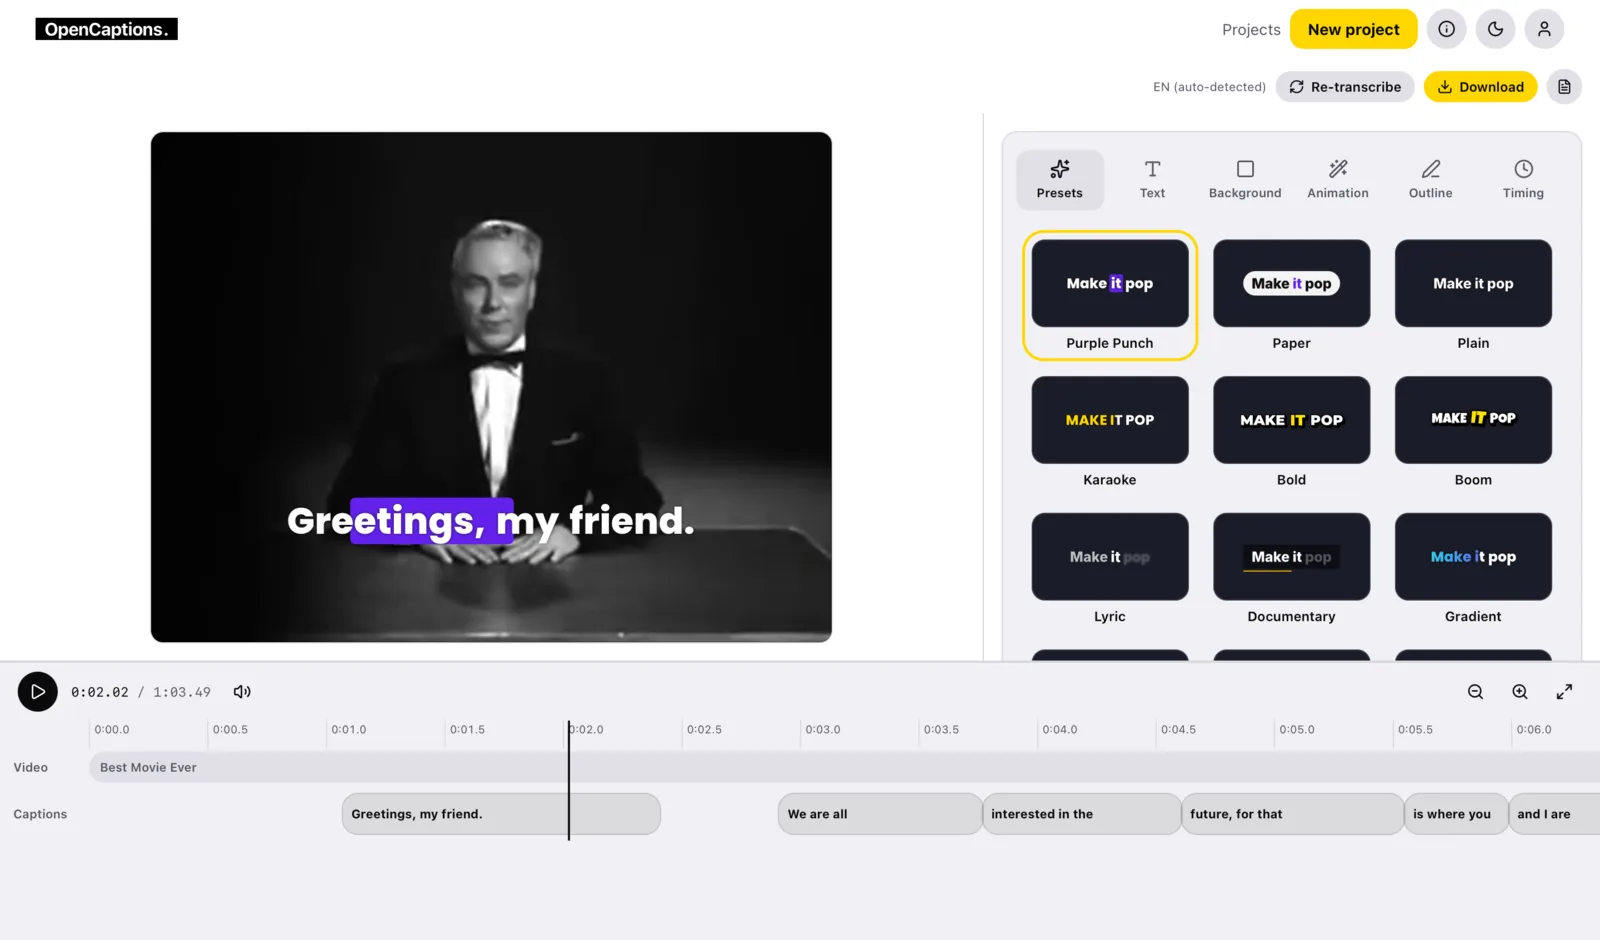
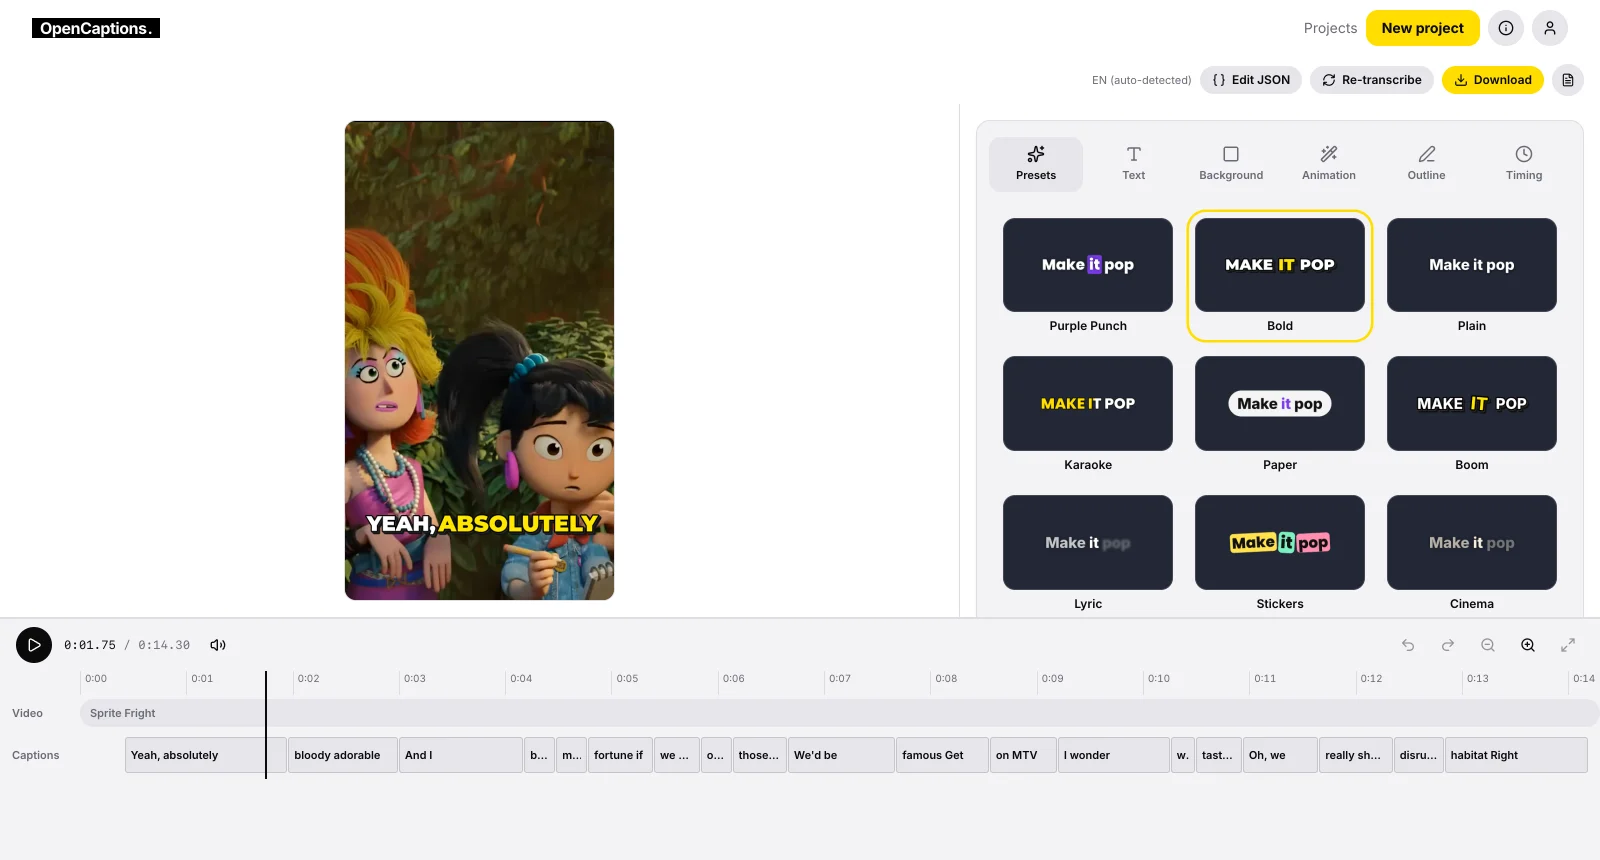
docs: The app is out: the README and guides link to it, say what is not on the Mac yet, explain Pro, and the screenshot shows the current editor on an animated film

diff --git a/README.md b/README.md
@@ -9,13 +9,15 @@
 Transcribe with Whisper or Parakeet, style every word, and export a burned-in video or subtitle files.
 Nothing leaves your machine unless you say so.
 
-**[Documentation](https://docs.opencaptions.app)** · **[Try it in your browser](https://opencaptions.app)** · **[Self-host it](#quick-start)**
+**[Get the iPhone app](https://apps.apple.com/app/id6820548922)** · **[Try it in your browser](https://opencaptions.app)** · **[Self-host it](#quick-start)** · **[Documentation](https://docs.opencaptions.app)**
 
 [![License: AGPL v3](https://img.shields.io/badge/License-AGPL_v3-blue.svg)](LICENSE)
 [![CI](https://github.com/leogaudin/opencaptions/actions/workflows/ci.yml/badge.svg)](https://github.com/leogaudin/opencaptions/actions/workflows/ci.yml)
 [![Status](https://img.shields.io/badge/status-pre--v0.1-orange.svg)](#status)
 
 ![OpenCaptions editor: a video with word-by-word animated captions next to the style panel, over the caption timeline](docs/screenshot.webp)
+
+<sub>Clip: <a href="https://studio.blender.org/projects/sprite-fright/">Sprite Fright</a> by Blender Studio, CC BY 4.0</sub>
 
 </div>
 
@@ -29,7 +31,8 @@ Nothing leaves your machine unless you say so.
 - **Export** a burned-in MP4, WebM or ProRes, SRT, VTT and JSON, or just the captions on a green
   screen to key out in your video editor
 - **The preview is the export**: one Rust engine draws both, so what you see is what you get
-- **iPhone, iPad and Mac app** with on-device Whisper, Parakeet and Apple Speech, no server and no account
+- **[iPhone and iPad app](https://apps.apple.com/app/id6820548922)** with on-device Whisper, Parakeet and Apple Speech, no server and
+  no account. The same code builds for the Mac
 - **Many scripts and languages**: Latin, Cyrillic, Arabic, Hebrew, Indic, Thai, CJK and more, and
   an interface in 13 languages
 - **Private by design**: no telemetry, no tracking, accounts are local to your instance
@@ -71,12 +74,20 @@ To build from source instead, clone the repository and run `docker compose up -d
 Pre-v0.1: under active construction, and APIs and schemas may change until the first tagged
 release.
 
+## Why is there a Pro?
+
+The iPhone app is free. Pro is one purchase, with no subscription: it removes the mark on saved videos
+and adds 4K, 60 fps, HDR and every caption style. All of that code is here, and
+[a build you make yourself](apps/ios/README.md) has everything unlocked. The App Store version costs
+money so that someone signs it, ships it and keeps it working.
+
 ## License
 
 [AGPL-3.0-only](LICENSE). If you offer a hosted version of OpenCaptions, the AGPL requires you to
 publish your modifications. Contributors accept a [CLA](CLA.md) so the maintainer can also ship
 the code where the AGPL cannot go, such as the App Store. Third-party components keep their own
-licences, see [NOTICE](NOTICE).
+licences, see [NOTICE](NOTICE). The name and the icon are covered by the
+[trademark policy](TRADEMARK.md).
 
 Built and maintained by [Leo Gaudin](https://github.com/leogaudin).
 

diff --git a/docs/guides/iphone-app.md b/docs/guides/iphone-app.md
@@ -12,14 +12,15 @@ save a captioned video. There is no account and no server, and nothing is upload
 **iOS 18** or later and works on iPhone and iPad.
 
 :::note[Availability]
-The app is being prepared for the App Store. Until it is there, you can
+[Get it on the App Store](https://apps.apple.com/app/id6820548922), for iPhone and iPad. You can also
 [build it from source](https://github.com/leogaudin/opencaptions/blob/main/apps/ios/README.md) with Xcode.
 :::
 
 ## On the Mac
 
-The same app runs on a Mac with Apple silicon (**macOS 15** or later), in one window with the editor
-laid out wide: the video and the style controls side by side, the timeline under them. It does everything
+The Mac version is not on the App Store yet, so for now you
+[build it from source](https://github.com/leogaudin/opencaptions/blob/main/apps/ios/README.md). It is the same app, on
+a Mac with Apple silicon (**macOS 15** or later), in one window with the editor laid out wide: the video and the style controls side by side, the timeline under them. It does everything
 the phone does, with the Mac's ways of doing it:
 
 - **Import** a video by dragging it from Finder onto the window, with **File → Import Video…** (⌘O), or from Photos.
@@ -29,7 +30,7 @@ the phone does, with the Mac's ways of doing it:
   Photos are there too.
 - **Settings** is a window of its own (⌘,).
 
-One purchase of Pro covers the iPhone, the iPad and the Mac, with no account: it is the same App Store app.
+One purchase of Pro covers the iPhone and the iPad, with no account, and will cover the Mac too: it is the same App Store app.
 
 ## Make captions
 

diff --git a/TRADEMARK.md b/TRADEMARK.md
@@ -1,0 +1,19 @@
+# The OpenCaptions name and icon
+
+The code is open source under [AGPL-3.0-only](LICENSE), and you are welcome to fork it, change it and
+publish your version. The name and the icon are not part of that licence. They tell people which app
+comes from this project, and the people who pay for the App Store version rely on it.
+
+**Fine without asking:**
+
+- Saying your project is based on, a fork of, or compatible with OpenCaptions.
+- Writing about OpenCaptions, reviewing it or teaching it, using the name and the icon to refer to it.
+- Running an unmodified copy for yourself or your team, under its own name.
+
+**Please do not:**
+
+- Publish a modified version, or any app in an app store, under the name OpenCaptions or with its icon.
+- Use the name or the icon in a way that suggests this project made, approved or supports something
+  it did not.
+
+A fork needs its own name and its own icon. Questions: [open an issue](https://github.com/leogaudin/opencaptions/issues).
